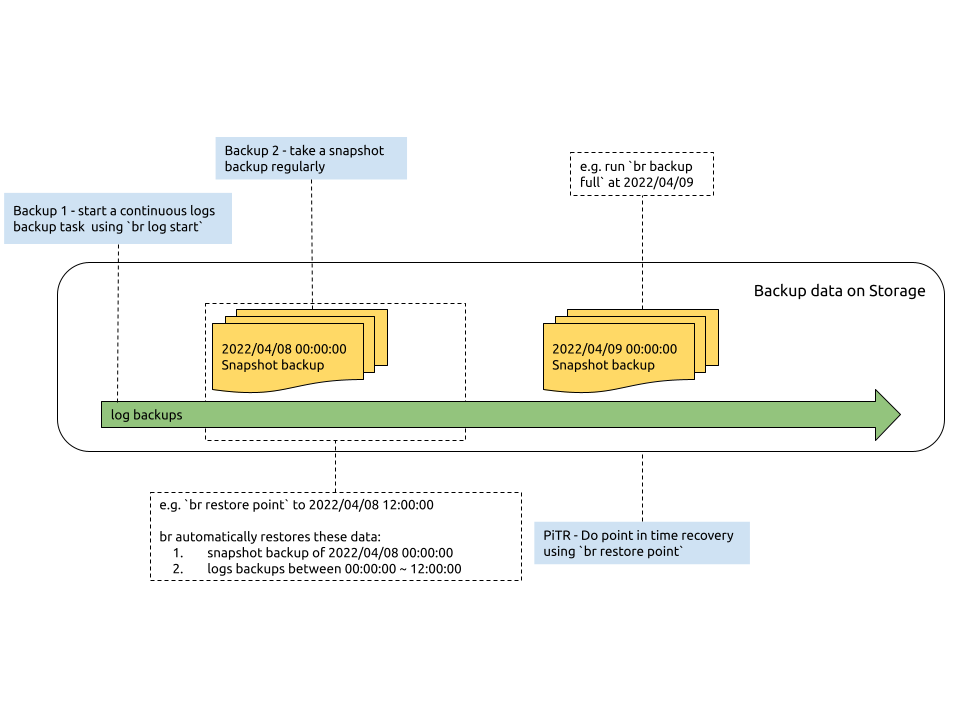
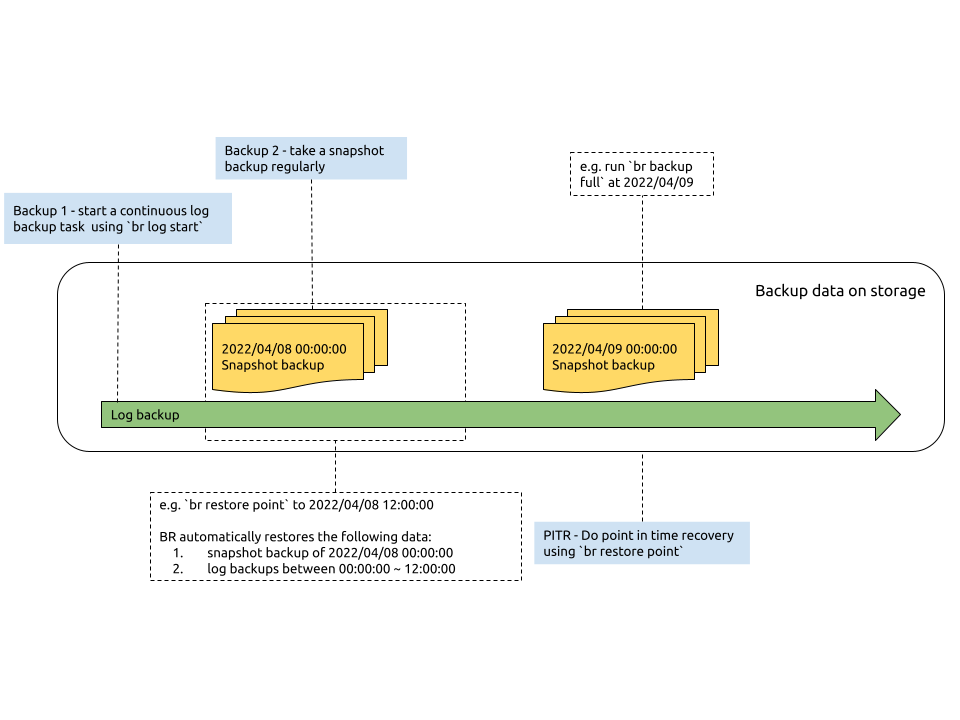
br: replace PiTR with PITR (#10841)

diff --git a/br/point-in-time-recovery.md b/br/point-in-time-recovery.md
@@ -1,40 +1,40 @@
 ---
-title: PiTR 功能介绍
-summary: 了解 PiTR 功能设计和使用。
+title: PITR 功能介绍
+summary: 了解 PITR 功能设计和使用。
 ---
 
-# PiTR 功能介绍
+# PITR 功能介绍
 
-使用 PiTR (Point-in-time recovery) 功能，你可以在新集群上恢复备份集群的历史任意时刻点的快照。TiDB 自 v6.2.0 开始在 [BR](/br/backup-and-restore-overview.md) 工具引入 PiTR 功能。
+使用 PITR (Point-in-time recovery) 功能，你可以在新集群上恢复备份集群的历史任意时刻点的快照。TiDB 自 v6.2.0 开始在 [BR](/br/backup-and-restore-overview.md) 工具引入 PITR 功能。
 
-PiTR 可用于满足以下业务需求：
+PITR 可用于满足以下业务需求：
 
 - 降低灾备场景下的 RPO，如 RPO 不超过十几分钟。
 - 处理业务数据写错的案例，如回滚业务数据到出错事件前。
 - 审计业务的历史数据，满足司法审查的需求。
 
-本文档介绍 PiTR 的功能设计、能力边界与架构。如需了解如何使用 PiTR，请查阅[使用 PiTR](/br/pitr-usage.md)。
+本文档介绍 PITR 的功能设计、能力边界与架构。如需了解如何使用 PITR，请查阅[使用 PITR](/br/pitr-usage.md)。
 
-## 在业务中使用 PiTR
+## 在业务中使用 PITR
 
-[BR](/br/backup-and-restore-overview.md) 是 PiTR 功能的使用入口，通过 BR 工具，你可以完成 PiTR 的所有操作，包含数据备份（快照备份、日志备份）、一键恢复到指定时间点、备份数据管理。
+[BR](/br/backup-and-restore-overview.md) 是 PITR 功能的使用入口，通过 BR 工具，你可以完成 PITR 的所有操作，包含数据备份（快照备份、日志备份）、一键恢复到指定时间点、备份数据管理。
 
-下图为 PiTR 功能使用示意：
+下图为 PITR 功能使用示意：
 
 ![Point-in-Time Recovery](/media/br/pitr-usage.png)
 
 ### 备份数据
 
-为了实现 PiTR，你需要执行以下备份任务：
+为了实现 PITR，你需要执行以下备份任务：
 
 - 启动一个日志备份。运行 `br log start` 命令来启动数据库日志备份任务。该任务在 TiDB 集群后台持续地运行，及时地将 KV storage 的变更日志保存到备份存储中。
 - 定期地执行[快照（全量）备份](/br/br-usage-backup.md#备份-tidb-集群快照)。运行 `br backup full` 命令来备份集群快照到备份存储，例如在每天零点进行集群快照备份。
 
 ### 一键恢复数据
 
-当你执行 PiTR 一键恢复数据时，你需要运行 `br restore point` 命令来调用恢复程序读取快照备份和日志备份的数据，将新集群恢复到指定时间点。
+当你执行 PITR 一键恢复数据时，你需要运行 `br restore point` 命令来调用恢复程序读取快照备份和日志备份的数据，将新集群恢复到指定时间点。
 
-使用 `br restore point` 执行 PiTR 时，需要指定恢复时间点之前的最近的快照备份数据以及日志备份数据。BR 程序会先恢复快照备份数据，然后读取并应用快照备份时间点到恢复时间点之间的日志备份数据。
+使用 `br restore point` 执行 PITR 时，需要指定恢复时间点之前的最近的快照备份数据以及日志备份数据。BR 程序会先恢复快照备份数据，然后读取并应用快照备份时间点到恢复时间点之间的日志备份数据。
 
 ### 管理备份数据
 
@@ -53,10 +53,10 @@ PiTR 可用于满足以下业务需求：
 
 ## 功能指标
 
-- PiTR 的日志备份对集群的影响在 5% 左右
-- PiTR 的日志备份和全量备份一起运行时，对集群的影响在 20% 以内
-- PiTR 恢复速度，平均到单台 TiKV 节点：全量恢复为 280 GB/h ，日志恢复为 30 GB/h
-- PiTR 功能提供的灾备 RPO 低至十几分钟，RTO 根据要恢复的数据规模几分钟到几个小时不等
+- PITR 的日志备份对集群的影响在 5% 左右
+- PITR 的日志备份和全量备份一起运行时，对集群的影响在 20% 以内
+- PITR 恢复速度，平均到单台 TiKV 节点：全量恢复为 280 GB/h ，日志恢复为 30 GB/h
+- PITR 功能提供的灾备 RPO 低至十几分钟，RTO 根据要恢复的数据规模几分钟到几个小时不等
 - 使用 BR 清理过期的日志备份数据速度为 600 GB/h
 
 > **注意：**
@@ -82,19 +82,19 @@ PiTR 可用于满足以下业务需求：
 ## 使用限制
 
 - 单个集群只支持启动一个日志备份任务。
-- 仅支持恢复到空集群。为了避免对集群的业务请求和数据产生影响，不能在原集群（in-place）和其他已有数据集群执行 PiTR。
+- 仅支持恢复到空集群。为了避免对集群的业务请求和数据产生影响，不能在原集群（in-place）和其他已有数据集群执行 PITR。
 - 存储支持 AWS S3 和共享的文件系统（如 NFS 等），暂不支持使用 GCS 和 Azure Blob Storage 作为备份存储。
-- 仅支持集群粒度的 PiTR，不支持对单个 database 或 table 执行 PiTR。
+- 仅支持集群粒度的 PITR，不支持对单个 database 或 table 执行 PITR。
 - 不支持恢复用户表和权限表的数据。
-- 如果备份集群包含 TiFlash，执行 PiTR 后恢复集群的数据不包含 TiFlash 副本，需要手动恢复 TiFlash 副本。具体操作参考[手动设置 schema 或 table 的 TiFlash 副本](/br/pitr-troubleshoot.md#在使用-br-restore-point-命令恢复下游集群后无法从-tiflash-引擎中查询到数据该如何处理)。
+- 如果备份集群包含 TiFlash，执行 PITR 后恢复集群的数据不包含 TiFlash 副本，需要手动恢复 TiFlash 副本。具体操作参考[手动设置 schema 或 table 的 TiFlash 副本](/br/pitr-troubleshoot.md#在使用-br-restore-point-命令恢复下游集群后无法从-tiflash-引擎中查询到数据该如何处理)。
 - 上游数据库使用 TiDB Lightning Physical 方式导入的数据，无法作为数据日志备份下来。推荐在数据导入后执行一次全量备份，细节参考[上游数据库使用 TiDB Lightning Physical 方式导入数据的恢复](/br/pitr-known-issues.md#上游数据库使用-tidb-lightning-physical-方式导入数据导致无法使用日志备份功能)。
 - 备份过程中不支持分区交换 (Exchange Partition)，参考[日志备份过程中执行分区交换](/br/pitr-troubleshoot.md#日志备份过程中执行分区交换-exchange-partition-ddl在-pitr-恢复时会报错该如何处理)。
 - 不支持在恢复中重复恢复某段时间区间的日志，如果多次重复恢复 [t1=10, ts2=20) 区间的日志备份数据，可能会造成恢复后的数据不一致。
-- 其他已知问题，请参考 [PiTR 已知问题](/br/pitr-known-issues.md)。
+- 其他已知问题，请参考 [PITR 已知问题](/br/pitr-known-issues.md)。
 
-## PiTR 架构
+## PITR 架构
 
-PiTR 主要用于快照备份恢复和日志备份恢复。关于快照备份恢复，请参考 [BR 设计原理](/br/backup-and-restore-design.md)。本节介绍日志备份和恢复的实现。
+PITR 主要用于快照备份恢复和日志备份恢复。关于快照备份恢复，请参考 [BR 设计原理](/br/backup-and-restore-design.md)。本节介绍日志备份和恢复的实现。
 
 日志备份恢复的架构实现如下：
 
@@ -119,5 +119,5 @@ PiTR 主要用于快照备份恢复和日志备份恢复。关于快照备份恢
 ## 探索更多
 
 - [日志备份和恢复功能命令使用介绍](/br/br-log-command-line.md)
-- [PiTR 使用教程](/br/pitr-usage.md)
-- [PiTR 监控告警](/br/pitr-monitoring-and-alert.md)
+- [PITR 使用教程](/br/pitr-usage.md)
+- [PITR 监控告警](/br/pitr-monitoring-and-alert.md)

diff --git a/br/pitr-usage.md b/br/pitr-usage.md
@@ -1,20 +1,20 @@
 ---
-title: 使用 PiTR
-summary: 了解如何使用 PiTR。
+title: 使用 PITR
+summary: 了解如何使用 PITR。
 ---
 
-# 使用 PiTR
+# 使用 PITR
 
-本文档介绍如何部署和使用 PiTR，可以帮助你顺利上手使用该功能。介绍具体操作前，设想有如下使用场景。你在 AWS 部署了一套 TiDB 生产集群，业务团队提出如下需求：
+本文档介绍如何部署和使用 PITR，可以帮助你顺利上手使用该功能。介绍具体操作前，设想有如下使用场景。你在 AWS 部署了一套 TiDB 生产集群，业务团队提出如下需求：
 
 - 及时备份用户数据变更，在数据库遭遇异常情况时，能够以最小的数据丢失代价（容忍异常前几分钟内的用户数据丢失）快速地恢复业务。
 - 每个月不定期进行业务审计。接收到审计请求后，提供一个数据库来查询审计要求的一个月内某个时间点的数据
 
-通过 TiDB 提供的 PiTR 功能，你可以满足业务团队的需求。
+通过 TiDB 提供的 PITR 功能，你可以满足业务团队的需求。
 
 ## 部署 TiDB 集群和 BR
 
-使用 PiTR 功能，需要部署 v6.2.0 及以上版本的 TiDB 集群，并且更新 BR 到与 TiDB 集群相同的版本，本文假设使用的是 v6.2.0 版本。
+使用 PITR 功能，需要部署 v6.2.0 及以上版本的 TiDB 集群，并且更新 BR 到与 TiDB 集群相同的版本，本文假设使用的是 v6.2.0 版本。
 
 下表介绍了在 TiDB 集群中使用日志备份功能的推荐配置。
 
@@ -114,9 +114,9 @@ checkpoint[global]: 2022-05-13 11:31:47.2 +0800; gap=4m53s
     tiup br backup full --pd=172.16.102.95:2379 --storage='s3://tidb-pitr-bucket/backup-data/snapshot-20220516000000' --backupts='2022/05/16 00:00:00'
     ```
 
-## 执行 PiTR
+## 执行 PITR
 
-假设你接到需求，要准备一个集群查询 2022/05/15 18:00:00 时间点的用户数据。此时，你可以制定 PiTR 方案，恢复 2022/05/14 的快照备份和该快照到 2022/05/15 18:00:00 之间的日志备份数据，从而收集到目标数据。执行命令如下：
+假设你接到需求，要准备一个集群查询 2022/05/15 18:00:00 时间点的用户数据。此时，你可以制定 PITR 方案，恢复 2022/05/14 的快照备份和该快照到 2022/05/15 18:00:00 之间的日志备份数据，从而收集到目标数据。执行命令如下：
 
 ```shell
 tiup br restore point --pd=172.16.102.95:2379
@@ -152,4 +152,4 @@ Restore KV Files <--------------------------------------------------------------
 ## 探索更多
 
 - [日志备份和恢复功能命令使用介绍](/br/br-log-command-line.md)
-- [PiTR 功能介绍](/br/point-in-time-recovery.md)
+- [PITR 功能介绍](/br/point-in-time-recovery.md)

diff --git a/br/pitr-troubleshoot.md b/br/pitr-troubleshoot.md
@@ -11,7 +11,7 @@ summary: 了解日志备份常见故障以及解决方法。
 
 ## 在使用 `br restore point` 命令恢复下游集群后，无法从 TiFlash 引擎中查询到数据，该如何处理？
 
-在 v6.2.0 版本中，使用 PiTR 功能恢复下游集群数据时，并不支持恢复下游的 TiFlash 副本。恢复数据之后，需要执行如下命令手动设置 schema 或 table 的 TiFlash 副本：
+在 v6.2.0 版本中，使用 PITR 功能恢复下游集群数据时，并不支持恢复下游的 TiFlash 副本。恢复数据之后，需要执行如下命令手动设置 schema 或 table 的 TiFlash 副本：
 
 ``` shell
 ALTER TABLE table_name SET TIFLASH REPLICA count;
@@ -70,14 +70,14 @@ Error: failed to check gc safePoint, checkpoint ts 433177834291200000: GC safepo
 
 暂停日志备份任务后，备份程序为了防止生成变更日志的 MVCC 数据被 GC，暂停任务程序会自动将当前备份点 checkpoint 设置为 service safepoint，允许保留最近 24 小时内的 MVCC 数据。当超过 24 小时后，备份点 checkpoint 的 MVCC 数据已经被 GC，此时程序会拒绝恢复备份任务。
 
-此场景的处理办法是：先执行 `br log stop` 命令来删除当前的任务，然后执行 `br log start` 重新创建新的日志备份任务，同时做一个全量备份，便于后续做 PiTR 恢复操作。
+此场景的处理办法是：先执行 `br log stop` 命令来删除当前的任务，然后执行 `br log start` 重新创建新的日志备份任务，同时做一个全量备份，便于后续做 PITR 恢复操作。
 
-## 日志备份过程中执行分区交换 (Exchange Partition) DDL，在 PiTR 恢复时会报错，该如何处理？
+## 日志备份过程中执行分区交换 (Exchange Partition) DDL，在 PITR 恢复时会报错，该如何处理？
 
-在执行 PiTR 恢复日志过程中，出现如下报错：
+在执行 PITR 恢复日志过程中，出现如下报错：
 
 ```shell
 restore of ddl `exchange-table-partition` is not supported
 ```
 
-因为当前 v6.2.0 版本的日志备份功能尚且不兼容分区交换 (Exchange Partition) DDL，在使用日志备份功能时，应尽量避免执行分区交换 DDL。如果已经执行此 DDL，需要立即做一次全量备份操作，PiTR 即可恢复本次全量备份点之后的日志数据。
+因为当前 v6.2.0 版本的日志备份功能尚且不兼容分区交换 (Exchange Partition) DDL，在使用日志备份功能时，应尽量避免执行分区交换 DDL。如果已经执行此 DDL，需要立即做一次全量备份操作，PITR 即可恢复本次全量备份点之后的日志数据。

diff --git a/br/pitr-known-issues.md b/br/pitr-known-issues.md
@@ -9,24 +9,24 @@ summary: 了解日志备份的已知问题。
 
 如果遇到未包含在此文档且无法解决的问题，可以在 [AskTUG](https://asktug.com/) 社区中搜索答案或提问。
 
-## BR 进程在执行 PiTR 恢复或执行 `br log truncate` 命令时出现 OOM 问题
+## BR 进程在执行 PITR 恢复或执行 `br log truncate` 命令时出现 OOM 问题
 
 Issue 链接：[#36648](https://github.com/pingcap/tidb/issues/36648)
 
-执行 PiTR 恢复时遇到 BR OOM 问题，从以下几点考虑：
+执行 PITR 恢复时遇到 BR OOM 问题，从以下几点考虑：
 
-- PiTR 恢复出现 OOM，是由于待恢复的日志区间过大。
-    - 一般建议恢复的日志区间不超过 2 天，最长不超过一周。即在 PiTR 备份过过程中至少 2 天或一周至少做一次全量备份操作。
+- PITR 恢复出现 OOM，是由于待恢复的日志区间过大。
+    - 一般建议恢复的日志区间不超过 2 天，最长不超过一周。即在 PITR 备份过过程中至少 2 天或一周至少做一次全量备份操作。
 - 删除日志时出现 OOM，是由于删除的日志区间过大。
     - 遇到此问题，解决方法是先减小删除的日志区间，可通过多次删除小区间日志来替代掉需要删除的大区间日志。
 - br 进程所在的节点内存配置过低。
-    - 建议升级节点内存配置到至少 16 GB，确保 PiTR 恢复有足够的内存资源。
+    - 建议升级节点内存配置到至少 16 GB，确保 PITR 恢复有足够的内存资源。
 
 ## 上游数据库使用 TiDB Lightning Physical 方式导入数据，导致无法使用日志备份功能
 
 目前日志备份功能还没有完全适配 TiDB Lightning，导致 TiDB Lightning Physical 方式导入的数据无法备份到日志中。
 
-在创建日志备份任务的上游集群中，请尽量避免使用 TiDB Lightning Physical 方式导入数据。可以选择使用 TiDB Lightning Logical 方式导入数据。若确实需要使用 Physical 导入方式，可在导入完成之后做一次全量备份操作，这样，PiTR 就可以恢复到全量备份之后的时间点。
+在创建日志备份任务的上游集群中，请尽量避免使用 TiDB Lightning Physical 方式导入数据。可以选择使用 TiDB Lightning Logical 方式导入数据。若确实需要使用 Physical 导入方式，可在导入完成之后做一次全量备份操作，这样，PITR 就可以恢复到全量备份之后的时间点。
 
 ## 使用自建的 Minio 系统作为日志备份的存储，执行 `br restore point` 或者 `br log truncate` 出现 `RequestCanceled` 错误
 

diff --git a/TOC.md b/TOC.md
@@ -491,8 +491,8 @@
       - [使用 Dumpling 和 TiDB Lightning 备份和恢复数据](/backup-and-restore-using-dumpling-lightning.md)
       - [BR 常见问题](/br/backup-and-restore-faq.md)
   - Point-in-time Recovery
-    - [PiTR 简介](/br/point-in-time-recovery.md)
-    - [通过命令行使用 PiTR](/br/br-log-command-line.md)
+    - [PITR 简介](/br/point-in-time-recovery.md)
+    - [通过命令行使用 PITR](/br/br-log-command-line.md)
     - [使用场景示例](/br/pitr-usage.md)
     - [监控告警](/br/pitr-monitoring-and-alert.md)
     - [故障处理](/br/pitr-troubleshoot.md)
